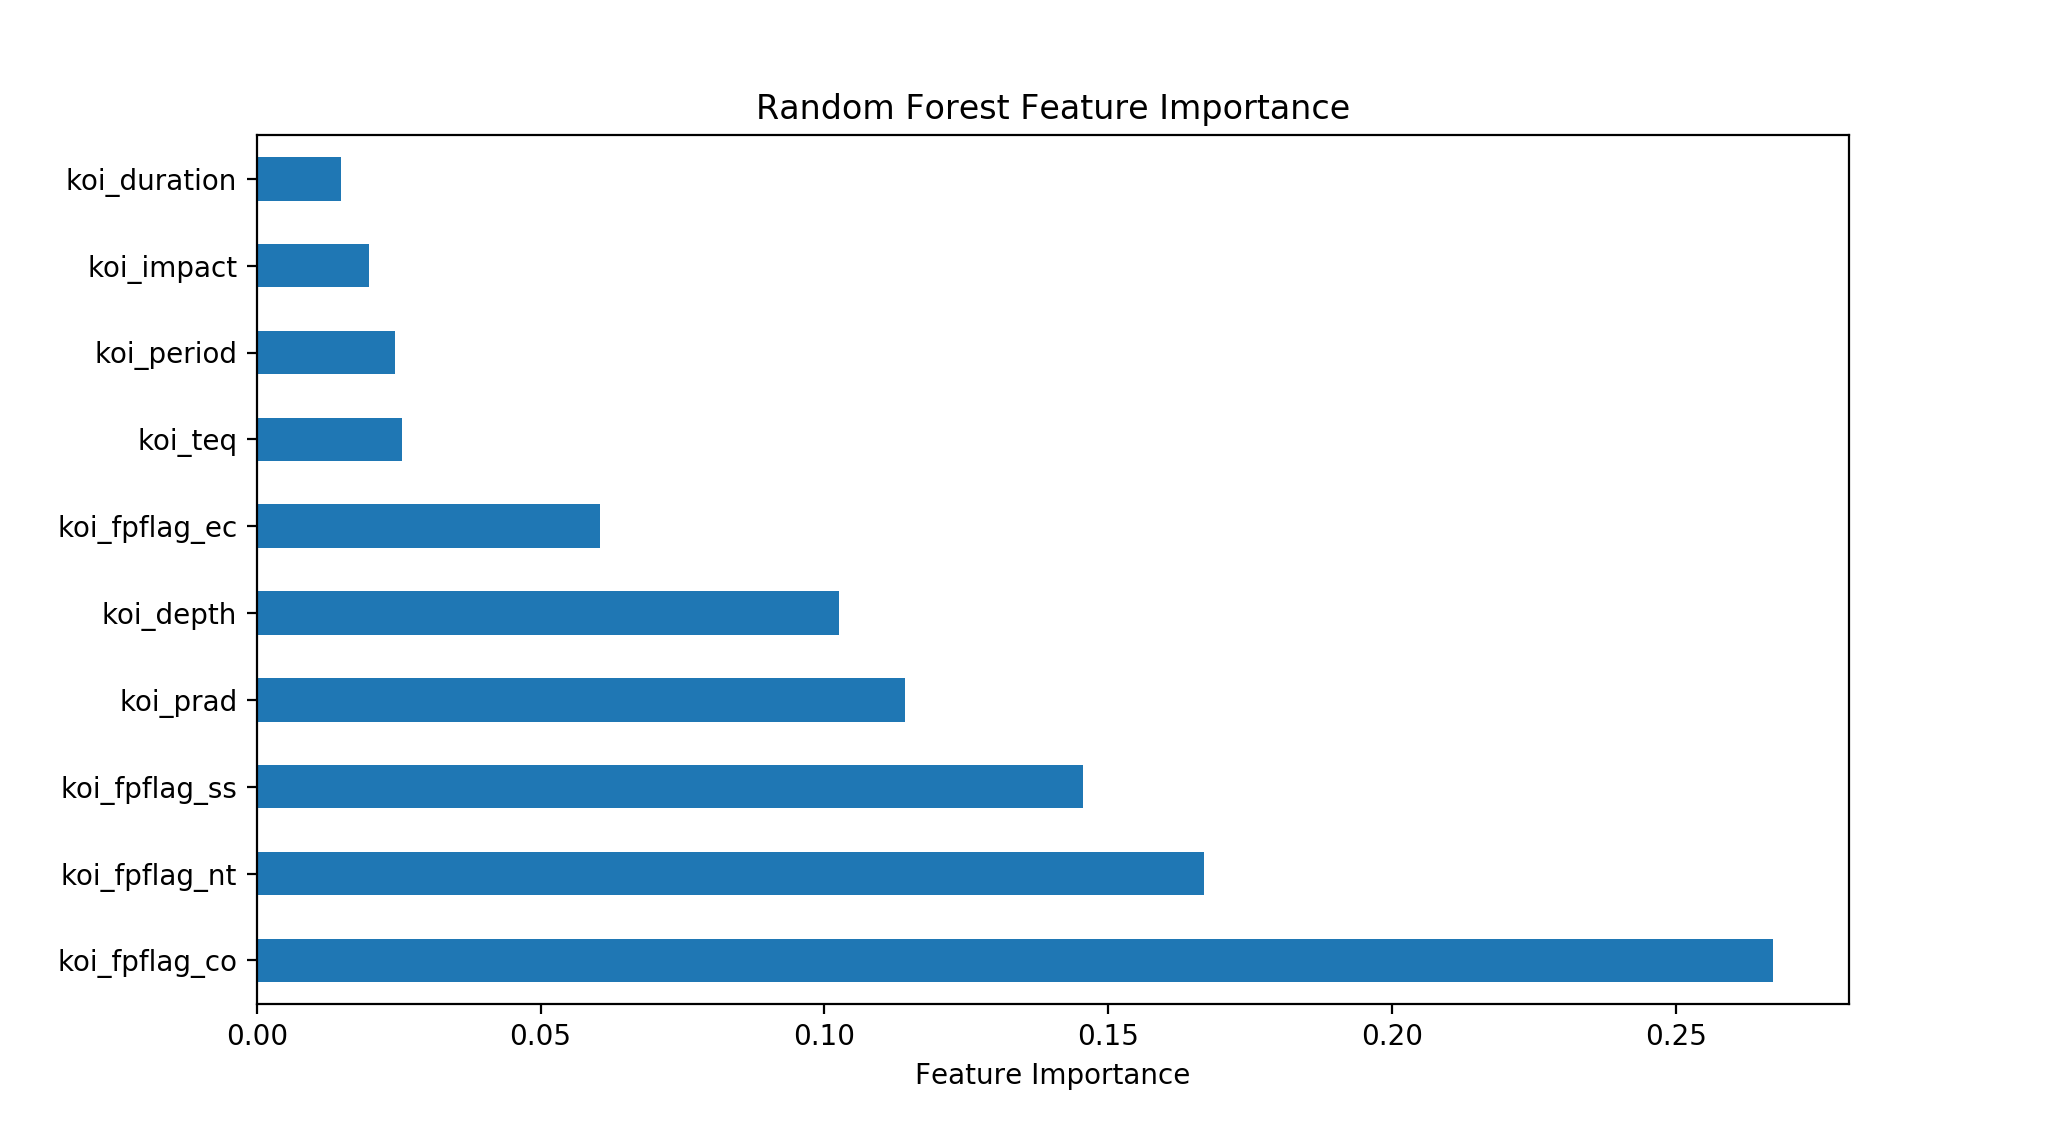
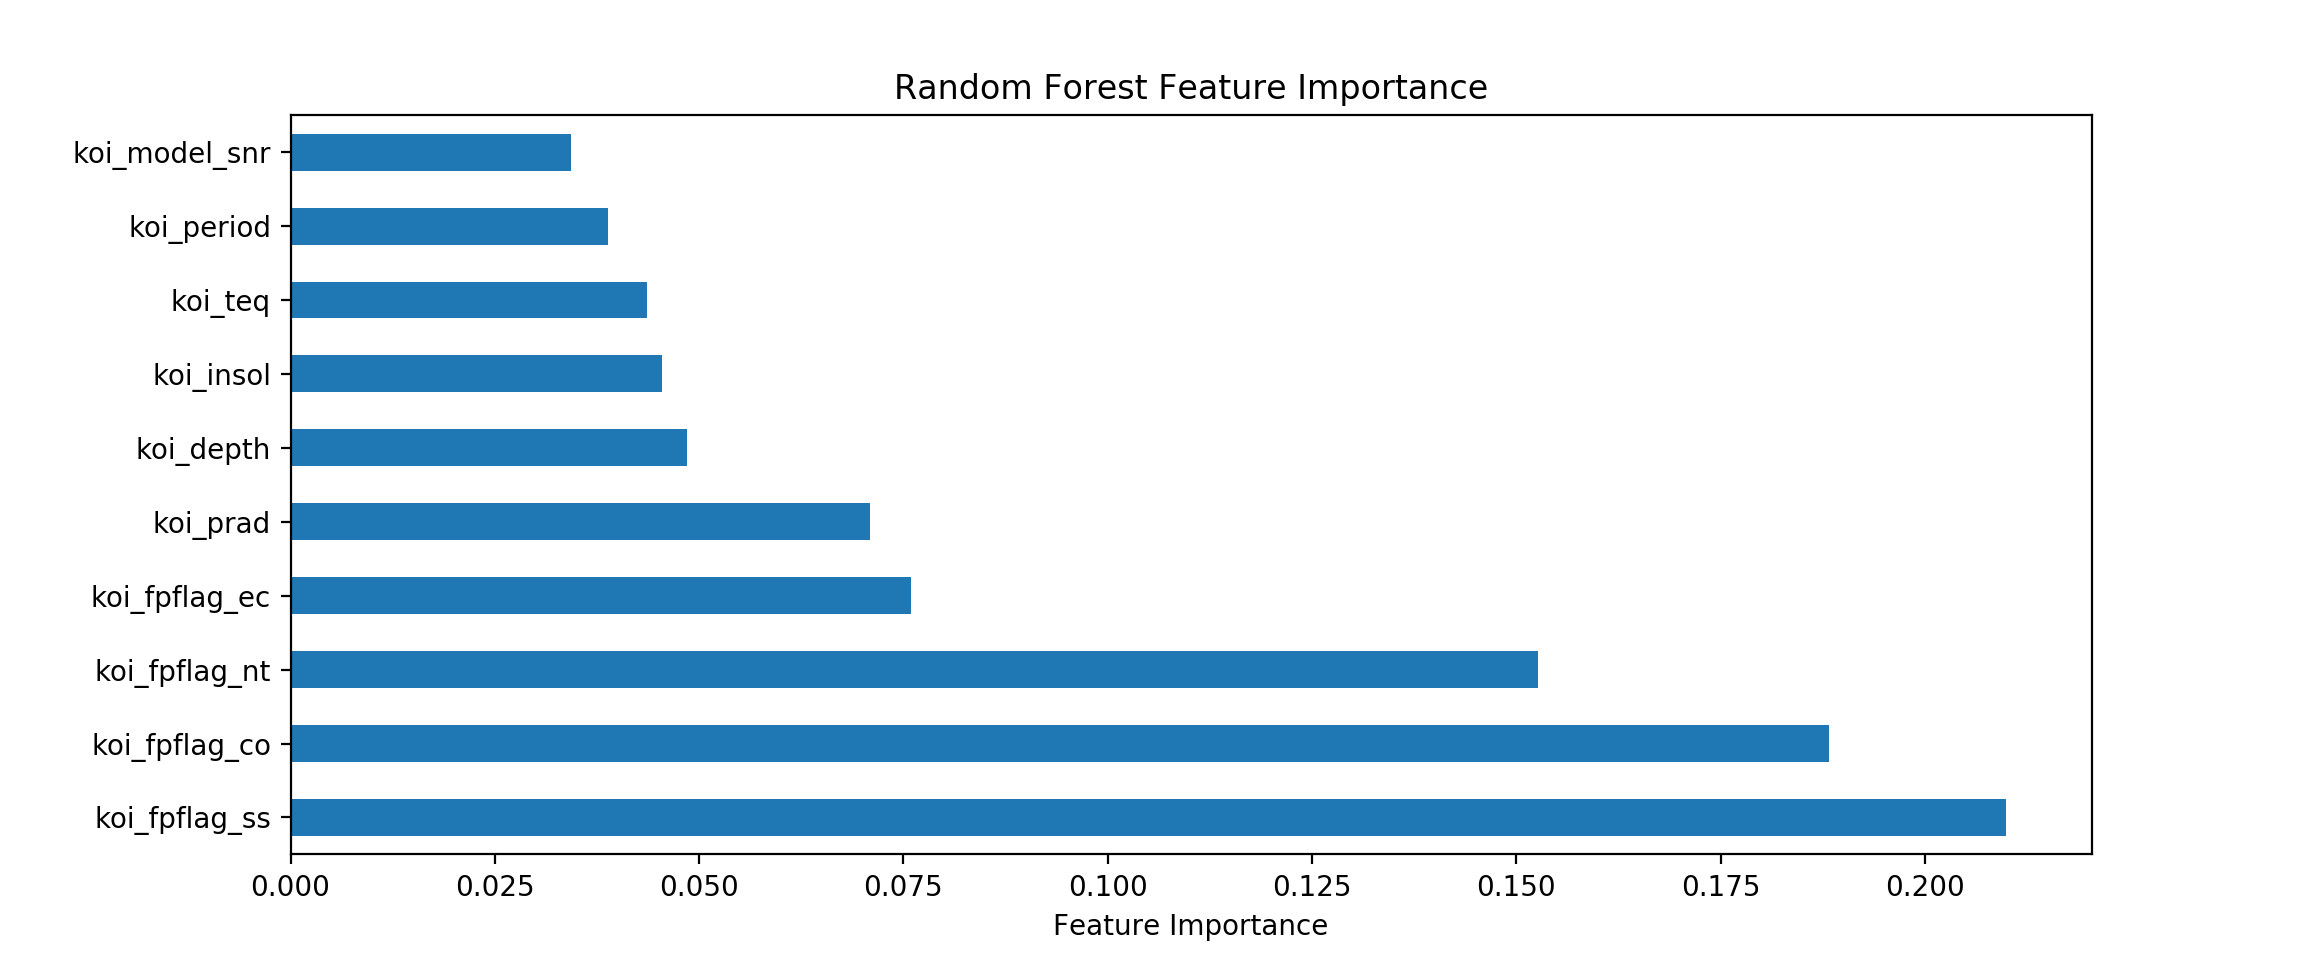
Update Midterm Report: Feature Selection

diff --git a/midterm_report.md b/midterm_report.md
@@ -24,6 +24,9 @@ After dropping the categorical columns, we still had the NaN problem. There were
 
 Cleaning the data of NaN values and unnecessary columns reduced our dataset to 22 columns and nearly 8000 data points. 8000 data points is plenty to use for our purposes. 
 
+**Note:** The feature koi_score was not removed during the cleaning process, but we chose to not include it in our final list of features. The definition of this 
+feature is "a value between 0 and 1 that indicates the confidence in the KOI disposition. For CANDIDATEs, a higher value indicates more confidence in its disposition, while for FALSE POSITIVEs, a higher value indicates less confidence in that disposition. The value is calculated from a Monte Carlo technique such that the score's value is equivalent to the frction of iterations where the Robovetter yields a disposition of CANDIDATE." Thus, the koi_score is directly linked to the koi_pdisposition of the data point, our target variable, using complex mathmatical methods. Because of this direct correlation, and the fact that it is not a physical characteristc of the exoplanet, we have chosen to disregard it from consideration for features.
+
 ### Feature Selection Methods
 #### Visualizing the Pearson Correlation Coefficient Between Pairs of Features
 After cleaning the dataset, we were left with 22 features. Since we are focusing on physical characteristics, it is very probable that there are highly correlated variables. We checked this by visualizing the Pearson correlation between each feature. The Pearson correlation coefficient values are between +1 and -1; +1 denotes a strong positive correlation while -1 denotes a strong negative correlation. Using the python visualization library seaborn, we created a heatmap illustrating the Pearson correlation between each variable. 
@@ -33,6 +36,26 @@ After cleaning the dataset, we were left with 22 features. Since we are focusing
 As seen in the Pearson correlation, we have a few semi-correlated features, seen by the darker red and blue colors in the heatmap. However, most of the features are not highly correlated, if at all.
 
 #### Random Forest to Determine Feature Importance
+Since we are not considering koi_score (see note above) we are left with 21 features for each data point. It is very likely that most of these features are not necessarily significant for actually predicting the label of the data point. Random Forest is a very popular method to determine feature importance. The model accomplishes this by creating many decision trees, and determining where the splits in those decision trees should optimally be, on which features by maximizing the information gain at each split. By doing this, the Random Forest algorithm can rank the features based on the average information gain of the feature. We plotted the ten most important features found by Random Forest.
+
+![](images/rf_feat_importance.png)
+
+The features and their definitions are in the table below. 
+
+| Feature | Definition  |
+|---|---|
+| koi_fpflag_ss | Stellar Eclipse Flag: A KOI that is observed to have a significant secondary event, transit shape, or out-of-eclipse variability, which indicates that the transit-like event is most likely caused by an eclipsing binary. |
+| koi_fpflag_co | Centroid Offset Flag: The source of the signal is from a nearby star, as inferred by measuring the centroid location of the image both in and out of transit, or by the strength of the transit signal in the target's outer (halo) pixels as compared to the transit signal from the pixels in the optimal (or core) aperture. |
+| koi_fpflag_nt | Not Transit-Like Flag: A KOI whose light curve is not consistent with that of a transiting planet. This includes, but is not limited to, instrumental artifacts, non-eclipsing variable stars, and spurious (very low SNR) detections. |
+| koi_fpflag_ec | Ephemeris Match Indicates Contamination Flag: The KOI shares the same period and epoch as another object and is judged to be the result of flux contamination in the aperture or electronic crosstalk.  |
+| koi_prad | Planetary Radius (Earth radii): The radius of the planet. Planetary radius is the product of the planet star radius ratio and the stellar radius. |
+| koi_depth | Transit Depth (parts per million): The fraction of stellar flux lost at the minimum of the planetary transit. Transit depths are typically computed from a best-fit model produced by a Mandel-Agol (2002) model fit to a multi-quarter Kepler light curve, assuming a linear orbital ephemeris. |
+| koi_insol | Insolation Flux [Earth flux]: Insolation flux is another way to give the equilibrium temperature. It depends on the stellar parameters (specifically the stellar radius and temperature), and on the semi-major axis of the planet. It's given in units relative to those measured for the Earth from the Sun. |
+| koi_teq | Equilibrium Temperature (Kelvin): Approximation for the temperature of the planet. The calculation of equilibrium temperature assumes a) thermodynamic equilibrium between the incident stellar flux and the radiated heat from the planet, b) a Bond albedo (the fraction of total power incident upon the planet scattered back into space) of 0.3, c) the planet and star are blackbodies, and d) the heat is evenly distributed between the day and night sides of the planet. |
+| koi_period | Orbital Period (days): The interval between consecutive planetary transits. |
+| koi_model_snr | Transit Signal-to-Noise: Transit depth normalized by the mean uncertainty in the flux during the transits. |
+
+By just taking the top ten features, we cut our number of features in half. However, five of the ten features have an importance below 0.05, which can generally be classified as "low". However, we cannot know for sure, and our manual cost of trying both the datasets with the top ten features and only the top five features is very low, so we implemented both datasets in the unsupervised learning methods below.  
 
 # Methods
 call out features of clusters that indicate candidates (process and describe some math, Why)
